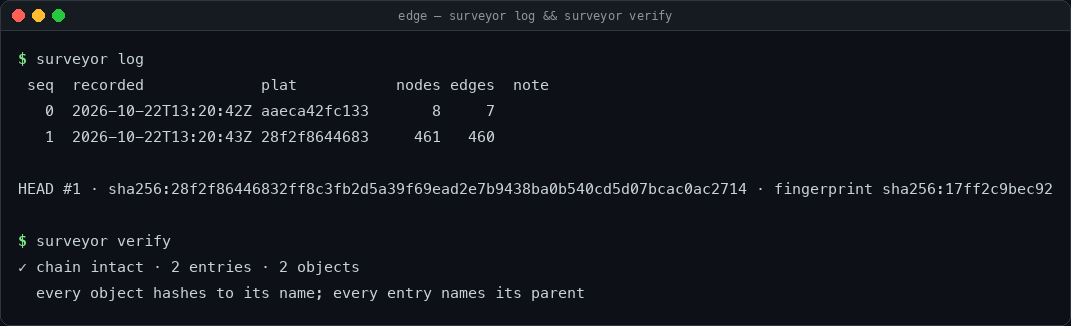
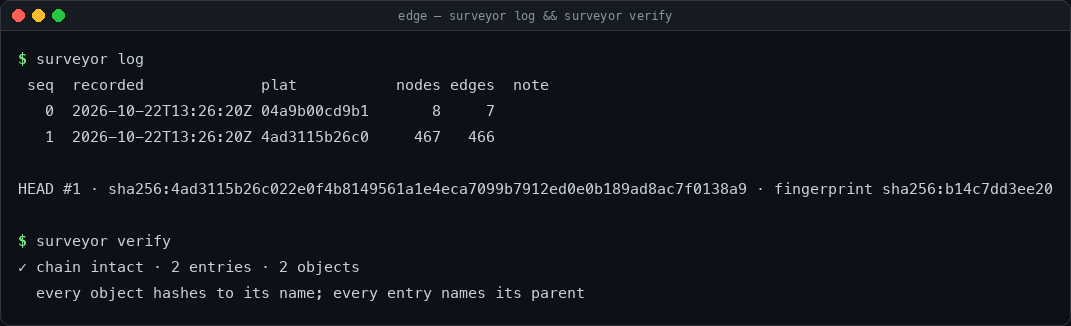
feat(workloads): record the UDP services the machine offers
A UDP server is a service exactly as much as a TCP one is, and it was
invisible: a box answering discovery or DNS requests over UDP showed a map
with nothing listening. UDP sockets bound to a port are now recorded as
`service:udp:<port>` nodes with an `exposes` edge.

Two distinctions matter, and both are about not inventing services:

- A socket bound to an ephemeral port (`*:*`) is an outgoing client. It is
  not listening for anything and it is not topology.
- A *connected* UDP socket is a conversation in progress, not a service. It
  has a peer on the other end and it disappears when the conversation does,
  which would make the workload layer churn on every scan.

Also fixed: lsof escapes a command name containing a space as `Codex\x20`,
and the plat carried the escape sequence verbatim. Both the TCP and the UDP
paths decode it now.

diff --git a/src/surveyor/scanners/workloads.py b/src/surveyor/scanners/workloads.py
@@ -275,7 +275,7 @@ def scan_listeners(ctx: ScanContext, result: ScanResult, log: ProbeLog) -> None:
             fields = raw.split(None, 8)
             if len(fields) < 9 or not fields[1].isdigit():
                 continue
-            command = fields[0]
+            command = _unescape_lsof(fields[0])
             name = fields[8].replace(" (LISTEN)", "").strip()
             bind, port = _bind_of(name)
             if port is None:
@@ -336,10 +336,129 @@ def scan_listeners(ctx: ScanContext, result: ScanResult, log: ProbeLog) -> None:
         )
 
 
+#: ``lsof -nP -iUDP``: "rapportd 681 user 19u IPv6 0x... 0t0 UDP *:3722"
+_LSOF_UDP = re.compile(
+    r"^(?P<command>\S+)\s+(?P<pid>\d+)\s+\S+\s+\S+\s+\S+\s+\S+\s+\S+\s+UDP\s+(?P<endpoint>\S+)\s*$"
+)
+
+#: ``ss -lun``: "UNCONN 0 0 0.0.0.0:68 0.0.0.0:*"
+_SS_UDP = re.compile(
+    r"^(?P<state>\S+)\s+(?P<recv>\d+)\s+(?P<send>\d+)\s+(?P<local>\S+)\s+(?P<peer>\S+)"
+)
+
+
+#: lsof escapes unusual characters in the command column as ``\xNN``.
+_LSOF_ESCAPE = re.compile(r"\\x([0-9a-fA-F]{2})")
+
+
+def _unescape_lsof(text: str) -> str:
+    """Decode lsof's ``\\xNN`` escapes in a command name."""
+
+    return _LSOF_ESCAPE.sub(lambda match: chr(int(match.group(1), 16)), text)
+
+
+def parse_lsof_udp(text: str) -> list[tuple[str, str, int]]:
+    """Parse ``lsof -nP -iUDP`` into (command, bind, port).
+
+    Only sockets that are *bound* to a port count. A connected UDP socket
+    is a conversation in progress, not a service, and a socket bound to an
+    ephemeral port (``*:*``) is an outgoing client.
+    """
+
+    found: list[tuple[str, str, int]] = []
+    for raw in text.splitlines():
+        match = _LSOF_UDP.match(raw.strip())
+        if not match:
+            continue
+        endpoint = match.group("endpoint")
+        if "->" in endpoint:
+            continue
+        bind, port = _bind_of(endpoint)
+        if port is None:
+            continue
+        found.append((_unescape_lsof(match.group("command")), bind, port))
+    return found
+
+
+def parse_ss_udp(text: str) -> list[tuple[str, str, int]]:
+    """Parse ``ss -lun`` into (command, bind, port)."""
+
+    found: list[tuple[str, str, int]] = []
+    for raw in text.splitlines():
+        match = _SS_UDP.match(raw.strip())
+        if not match:
+            continue
+        local = match.group("local")
+        bind, port = _bind_of(local)
+        if port is None:
+            continue
+        process = _SS_PROCESS.search(raw)
+        command = process.group("process").strip('"') if process else "unknown"
+        found.append((command, bind, port))
+    return found
+
+
+def scan_udp_listeners(ctx: ScanContext, result: ScanResult, log: ProbeLog) -> None:
+    """The UDP services the machine offers.
+
+    A UDP server is a service exactly as much as a TCP one is, and it was
+    invisible: a box answering DNS or discovery requests over UDP showed a
+    map with nothing listening.
+    """
+
+    entries: list[tuple[str, str, int]] = []
+    if ctx.platform == "darwin":
+        probe = log.add(run(["lsof", "-nP", "-iUDP"], timeout=min(ctx.timeout, 8.0)))
+        if probe.ok:
+            entries = parse_lsof_udp(probe.stdout)
+    elif ctx.platform.startswith("linux"):
+        probe = log.add(run(["ss", "-lun"], timeout=min(ctx.timeout, 8.0)))
+        if probe.ok:
+            entries = parse_ss_udp(probe.stdout)
+    if not entries:
+        return
+
+    services: dict[int, dict[str, Any]] = {}
+    for command, bind, port in entries:
+        record = services.setdefault(port, {"processes": set(), "binds": set()})
+        record["processes"].add(command)
+        record["binds"].add(bind)
+
+    host = local_host_id()
+    skipped_loopback = 0
+    for port in sorted(services)[: ctx.config.max_workloads]:
+        record = services[port]
+        binds = sorted(record["binds"])
+        processes = sorted(record["processes"])
+        local_only = bool(binds) and all(
+            bind in _LOOPBACK_BINDS or bind.startswith("127.") for bind in binds
+        )
+        if local_only and not ctx.config.include_local_services:
+            skipped_loopback += 1
+            continue
+        tags = ("listener", "udp", "local-only" if local_only else "exposed")
+        label = f"udp/{port} ({processes[0]})" if processes else f"udp/{port}"
+        node = _service_node(
+            port,
+            "udp",
+            label,
+            {"bind": binds, "processes": processes},
+            tags,
+        )
+        result.nodes.append(node)
+        result.edges.append(Edge(host, REL_EXPOSES, node.id, {"source": "listener"}))
+
+    if skipped_loopback:
+        result.warn(
+            f"{skipped_loopback} loopback-only UDP service(s) omitted; "
+            "set include_local_services = true to record them"
+        )
+
+
 @register(
     "workloads",
     LAYER_WORKLOAD,
-    "Docker containers, a local Ollama server with its models, and listening TCP sockets",
+    "Docker containers, a local Ollama server with its models, and listening sockets",
 )
 def scan_workloads(ctx: ScanContext) -> ScanResult:
     result = ScanResult(scanner="workloads", layer=LAYER_WORKLOAD)
@@ -347,6 +466,7 @@ def scan_workloads(ctx: ScanContext) -> ScanResult:
     scan_docker(ctx, result, log)
     scan_ollama(ctx, result, log)
     scan_listeners(ctx, result, log)
+    scan_udp_listeners(ctx, result, log)
 
     for note in log.notes():
         result.warn(note)

diff --git a/tests/test_scanners_parse.py b/tests/test_scanners_parse.py
@@ -10,7 +10,13 @@ from surveyor.scanners.network import (
     parse_ip_neigh,
 )
 from surveyor.scanners.power import _parse_ioreg_battery, _parse_pmset_batt
-from surveyor.scanners.workloads import _bind_of, _parse_labels, _published_ports
+from surveyor.scanners.workloads import (
+    _bind_of,
+    _parse_labels,
+    _published_ports,
+    parse_lsof_udp,
+    parse_ss_udp,
+)
 
 DF = """Filesystem     1024-blocks      Used Available Capacity  Mounted on
 /dev/disk3s1s1   971350180  13340060  10525016    56%    /
@@ -19,6 +25,45 @@ devfs                  207       207         0   100%    /dev
 map auto_home            0         0         0   100%    /System/Volumes/Data/home
 /dev/disk4s1        634756    631956      2800   100%    /Volumes/Kiro CLI
 """
+
+
+LSOF_UDP = """COMMAND     PID            USER   FD   TYPE             DEVICE SIZE/OFF NODE NAME
+rapportd    681 michaelhamanaka   19u  IPv6 0x9df37d98c999a5dc      0t0  UDP *:3722
+identitys   709 michaelhamanaka    7u  IPv4 0xce1b0aba7d4cf666      0t0  UDP *:*
+sharingd    718 michaelhamanaka   14u  IPv6 0x50860af2487a2e5      0t0  UDP *:55894
+Codex       5539 michaelhamanaka   23u  IPv4 0x3b3f4b1d477c007a      0t0  UDP 192.168.53.209:64495->160.79.104.10:443
+"""
+
+SS_UDP = """State  Recv-Q Send-Q Local Address:Port  Peer Address:Port
+UNCONN 0      0            0.0.0.0:68         0.0.0.0:*
+UNCONN 0      0          127.0.0.53:53         0.0.0.0:*
+UNCONN 0      0            0.0.0.0:5353        0.0.0.0:*
+"""
+
+
+def test_parse_lsof_udp_reads_only_the_bound_services():
+    services = parse_lsof_udp(LSOF_UDP)
+    addresses = {(command, port) for command, _, port in services}
+    assert ("rapportd", 3722) in addresses
+    assert ("sharingd", 55894) in addresses
+    # "*:*" is an ephemeral port: an outgoing client, not a service.
+    assert len(services) == 2
+    # A connected socket is a conversation, not a service.
+    assert not [item for item in services if item[2] == 64495]
+
+
+def test_parse_ss_udp_reads_the_listening_ports():
+    services = parse_ss_udp(SS_UDP)
+    ports = {port for _, _, port in services}
+    assert 53 in ports
+    assert 5353 in ports
+    assert 68 in ports
+
+
+def test_lsof_escapes_are_decoded():
+    from surveyor.scanners.workloads import _unescape_lsof
+
+    assert _unescape_lsof("Codex\\x20") == "Codex "
 
 
 def test_parse_df_reads_the_real_filesystems():

diff --git a/docs/roadmap.md b/docs/roadmap.md
@@ -488,9 +488,27 @@ recorded conflict when two scanners disagree about the same key.
 **Problem.** Only TCP listeners are seen. UDP endpoints, Unix domain sockets,
 and process-level services are not.
 
-**Work.** Add UDP listeners, and Unix sockets as a `service:` node with a
-filesystem-path identity. Keep the "loopback-only is not topology" rule — it
-is a good rule — but make it configurable per operator, not global.
+**Done in this release.** UDP services are recorded as `service:udp:<port>`
+nodes with an `exposes` edge, read from `lsof -nP -iUDP` on macOS and
+`ss -lun` on Linux.
+
+Two distinctions matter, and both are about not inventing services:
+
+- **A socket bound to an ephemeral port (`*:*`) is an outgoing client.** It
+  is not listening for anything and it is not topology.
+- **A *connected* UDP socket is a conversation in progress**, not a service.
+  It has a peer on the other end, and it disappears when the conversation
+  does — which would make the workload layer churn on every scan.
+
+**Still to do — and a decision, not a task.** Unix domain sockets were on
+the list, and they should probably stay off it. A Unix socket cannot leave
+the machine by definition, and the tool already applies exactly that rule
+to loopback-only TCP listeners: *a socket that cannot leave the machine is
+not part of the edge topology*. The one exception worth considering is a
+socket an operator reaches *on* purpose — `/var/run/docker.sock` is how the
+host talks to its container runtime — and that is an argument for
+recording the *interesting* named sockets, not for recording all of them.
+
 
 ### B10. OET 2.0
 

diff --git a/CHANGELOG.md b/CHANGELOG.md
@@ -8,6 +8,13 @@ All notable changes to The Surveyor. The format follows
 
 ### Added
 
+- **UDP services.** A UDP server is a service exactly as much as a TCP one
+  is, and it was invisible: a box answering discovery or DNS requests over
+  UDP showed a map with nothing listening. UDP sockets bound to a port are
+  now recorded as `service:udp:<port>` nodes with an `exposes` edge. A
+  socket bound to an ephemeral port is an outgoing client, and a *connected*
+  UDP socket is a conversation in progress — neither is a service, and
+  neither is recorded.
 - **Scheduled services.** A new `services` scanner reads systemd units
   (`systemctl list-units`) and launchd daemons (`launchctl print system`)
   and records them as `workload:` nodes the host runs. The scope is the
@@ -159,6 +166,9 @@ All notable changes to The Surveyor. The format follows
 
 ### Fixed
 
+- **lsof's escaped command names were not decoded.** lsof writes a command
+  containing a space as `Codex\x20`, and the plat carried the escape
+  sequence verbatim.
 - **A discharging battery was reported as charging.** The power parser
   tested `"charging" in detail` before `"discharging" in detail`, and
   *discharging* contains *charging* — so every battery running down the

diff --git a/README.md b/README.md
@@ -118,7 +118,7 @@ Useful flags: `--redact` (publishable plats), `--no-save` (look, don't record),
 | `power` | power | AC mains, batteries, UPS and solar, where the OS reports them |
 | `host` | metal | CPU, memory, storage, thermals, board, boot mode |
 | `network` | network | interfaces, IPv4 and IPv6 subnets, the gateway, neighbours on the wire |
-| `workloads` | workload | containers, the local model server and its models, listening sockets |
+| `workloads` | workload | containers, the local model server and its models, listening TCP and UDP sockets |
 | `services` | workload | systemd units and launchd daemons |
 
 Each scanner is independently failable: if one times out or fails, the

diff --git a/docs/oet-1.0.md b/docs/oet-1.0.md
@@ -40,7 +40,7 @@ of a node.
 | `interface` | network | `iface:<host>:<ifname>` | `iface:studio:en0` |
 | `workload` | workload | `workload:<runtime>:<name>` | `workload:docker:web`, `workload:systemd:nginx.service` |
 | `model` | workload | `model:<slug>` | `model:llama3.2:3b` |
-| `service` | workload | `service:<proto>:<port>` | `service:tcp:8080` |
+| `service` | workload | `service:<proto>:<port>` | `service:tcp:8080`, `service:udp:5353` |
 | `volume` | workload | `volume:<name>` | `volume:pgdata` |
 
 Identity is the hard part of any topology format. Three rules keep it stable:
